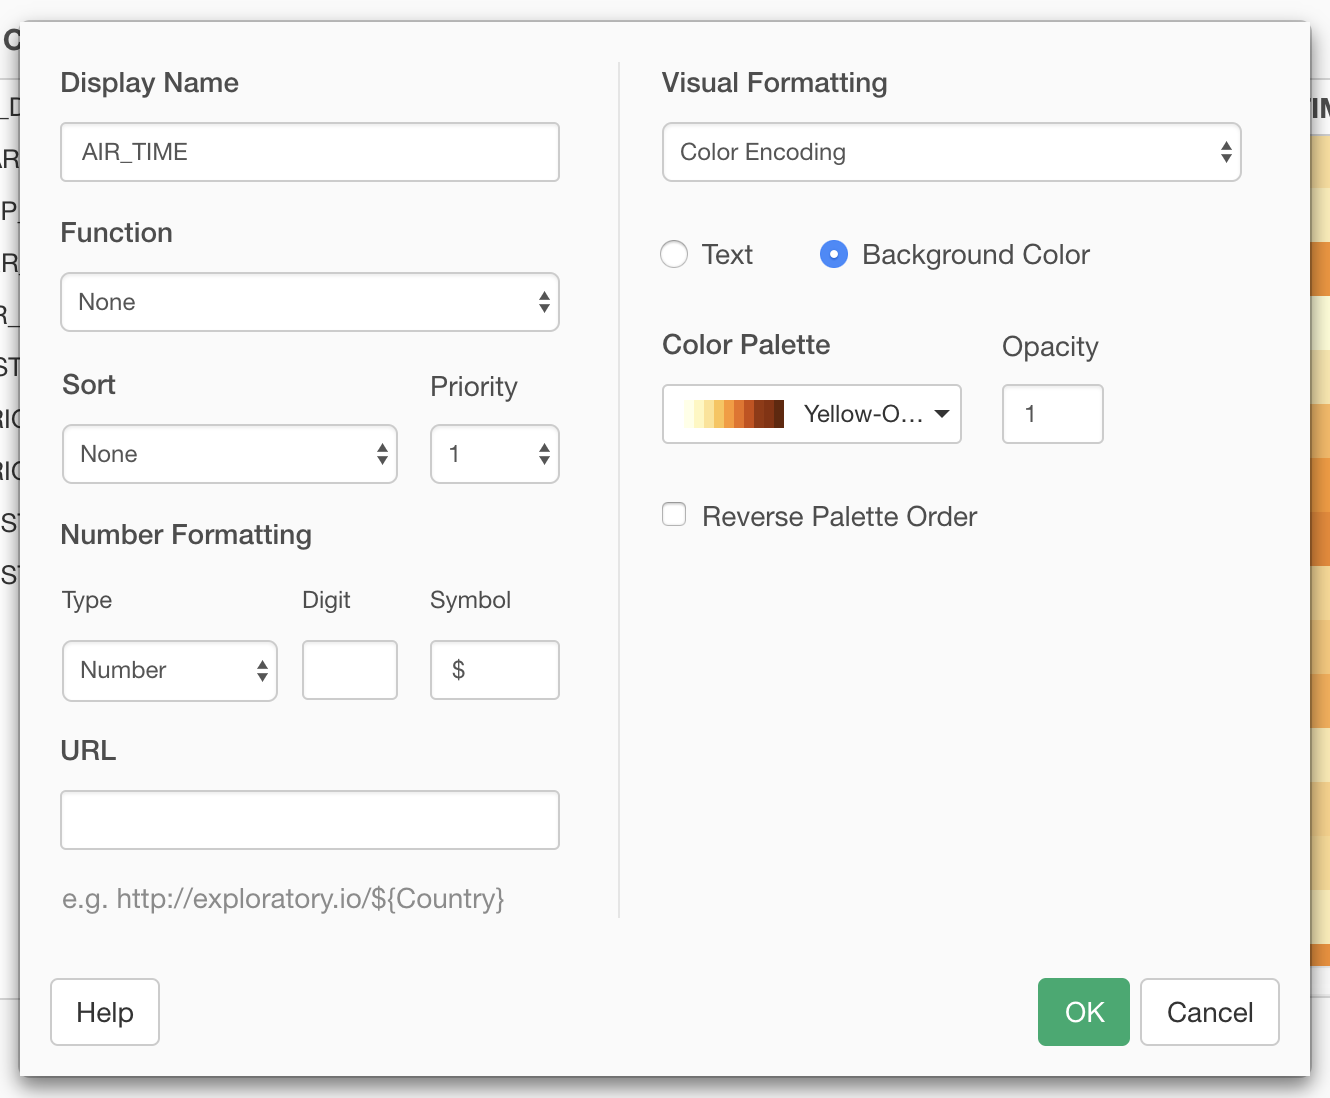
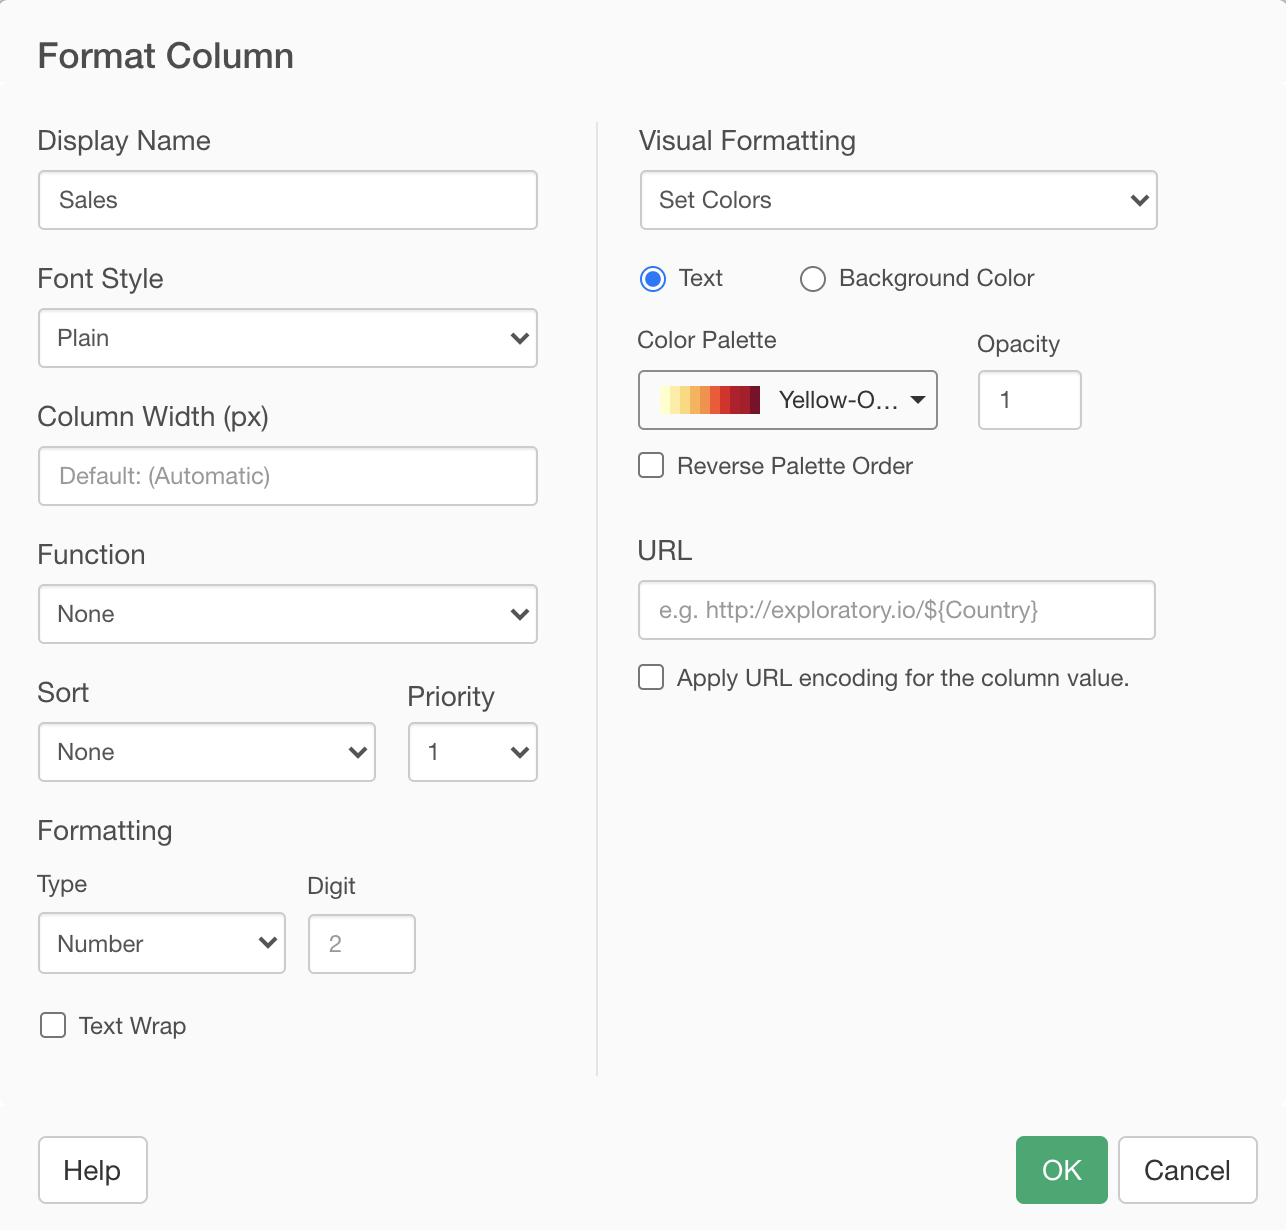
Add 6.3.2 Table updates.

diff --git a/viz/column-configuration-dialog.md b/viz/column-configuration-dialog.md
@@ -10,6 +10,14 @@ You can change the format of the target column in the Column Configuration Dialo
 
 You can set the column display name that you want to use. 
 
+## Font Style
+
+You can set a font style that you want to use for text in cells.
+
+## Column Width (px)
+
+You can set a column width. The unit is pixel. 
+
 ## Function 
 
 You can choose the column function you want to apply to the column data if available. The following functions are available depending on the data type of the target column. 
@@ -74,6 +82,14 @@ You can set Number Formatting for numeric columns. The following formatting opti
 * Symbol: Current symbol. It will be added to it will be added at the beginning of each number if the "Currency" type is selected. 
 
 
+## Text Wrap
+
+You can enable Text Wrap option to allow showing the text in multiple lines. 
+
+![](images/cconf15.png)
+
+
+
 ## URL Link
 
 You can set a URL Link on the column. You can dynamically construct the link with the associated column values by referencing the column name by `${}`. Once you define a URL Link, the column value will be clickable and if a user clicks the value, it opens up the URL in an external browser. 
@@ -95,7 +111,7 @@ If you want to use values as a URL parameter, check the "Apply URL encoding for 
 
 You can set a Visual Formatting on each column. Visual formatting is available only for the numeric columns. 
 
-### Bar Length 
+### Show Bars on Background
 
 You can show inline bars in the column value cells. The bar length is depending on the column value. You can choose colors for positive values and negative values.  
 
@@ -106,7 +122,7 @@ The output will look like this.
 ![](images/cconf11.png)
 
 
-### Color Encoding 
+### Set Colors
 
 You can apply a color encoding to the column values. You can choose a color palette to apply from the list. You can apply colors to either the value text or background color. 
 
@@ -118,7 +134,7 @@ This is the example of the color encoding applied to the background color.
 
 ![](images/cconf12.png)
 
-## Condtional Formatting 
+## Set Colors Conditionally
 
 You can apply a specific color only for the values that meet the condition. You can choose an operator and enter the value to construct a condition, and you can choose a color to apply from the list. You can apply colors to either the value text or background color. 
 
